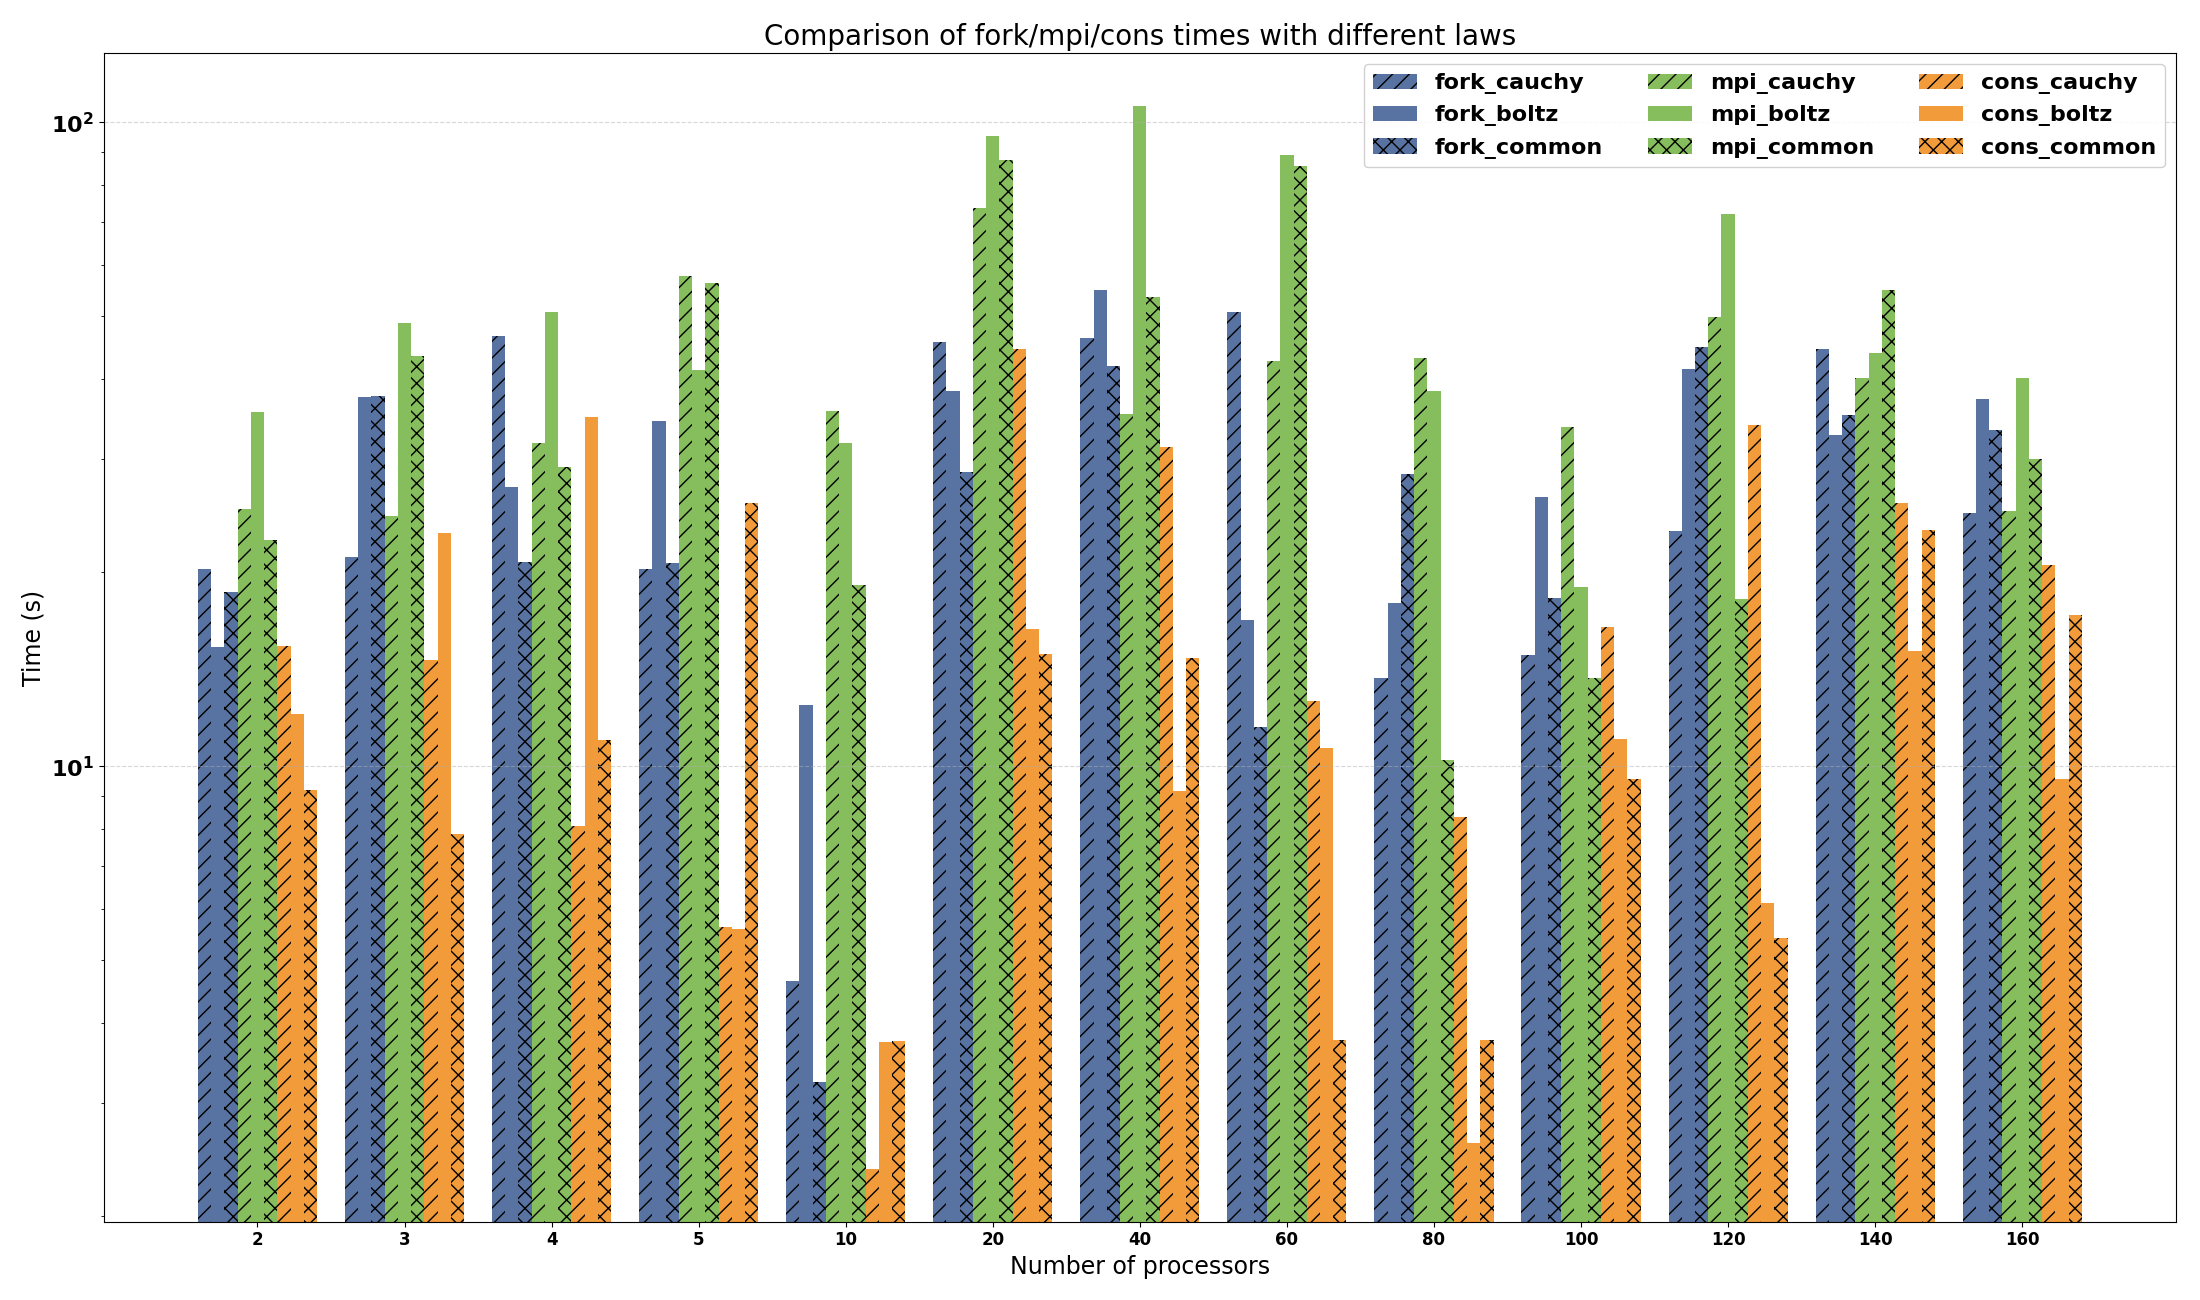
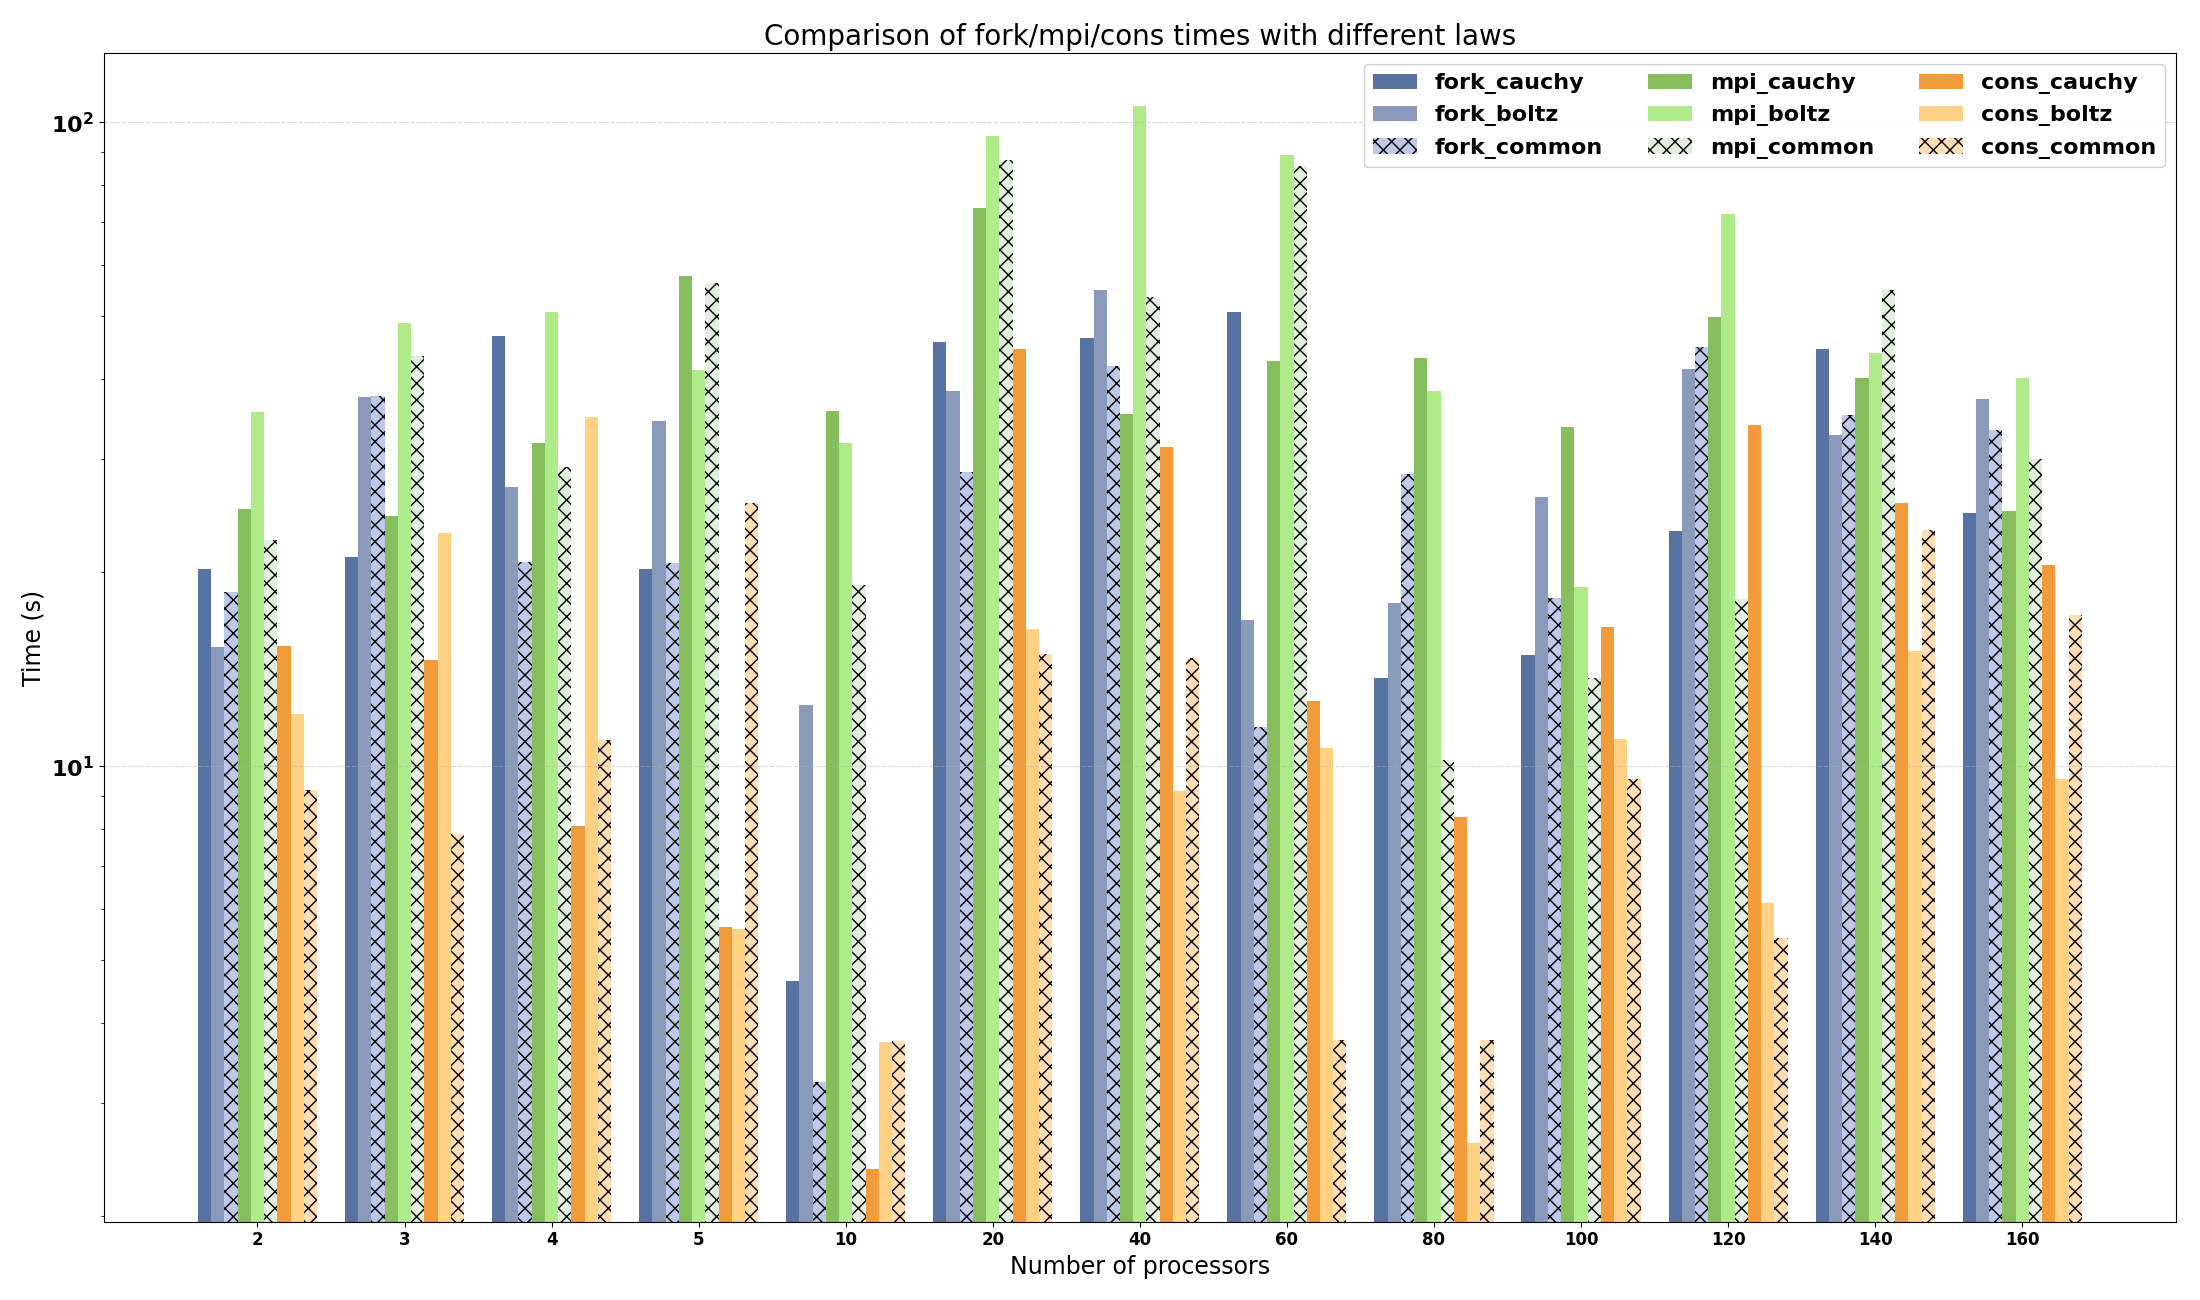
Fix visuality

diff --git a/compare.py b/compare.py
@@ -377,20 +377,19 @@ if __name__ == "__main__":
         plt.grid(axis='y', linestyle='--', alpha=0.5)
 
         # fork - разные цвета, hatch
-        plt.bar(x - 4*bar_width, fork_1, width=bar_width, label='fork_cauchy', color='#3b5b92', hatch='//', alpha=0.85)
-        plt.bar(x - 3*bar_width, fork_2, width=bar_width, label='fork_boltz', color='#3b5b92', hatch='', alpha=0.85)
-        plt.bar(x - 2*bar_width, fork_3, width=bar_width, label='fork_common', color='#3b5b92', hatch='xx', alpha=0.85)
+        plt.bar(x - 4*bar_width, fork_1, width=bar_width, label='fork_cauchy', color='#3b5b92', hatch='', alpha=0.85)
+        plt.bar(x - 3*bar_width, fork_2, width=bar_width, label='fork_boltz', color='#7588b0', hatch='', alpha=0.85)
+        plt.bar(x - 2*bar_width, fork_3, width=bar_width, label='fork_common', color='#b3bfe6', hatch='xx', alpha=0.85)
 
         # mpi - другой цвет
-        plt.bar(x - bar_width, mpi_1, width=bar_width, label='mpi_cauchy', color='#71b340', hatch='//', alpha=0.85)
-        plt.bar(x, mpi_2, width=bar_width, label='mpi_boltz', color='#71b340', hatch='', alpha=0.85)
-        plt.bar(x + bar_width, mpi_3, width=bar_width, label='mpi_common', color='#71b340', hatch='xx', alpha=0.85)
+        plt.bar(x - bar_width, mpi_1, width=bar_width, label='mpi_cauchy', color='#71b340', hatch='', alpha=0.85)
+        plt.bar(x, mpi_2, width=bar_width, label='mpi_boltz', color='#a1e877', hatch='', alpha=0.85)
+        plt.bar(x + bar_width, mpi_3, width=bar_width, label='mpi_common', color='#ddebd9', hatch='xx', alpha=0.85)
 
         # cons - ещё другой цвет
-        plt.bar(x + 2*bar_width, cons_1, width=bar_width, label='cons_cauchy', color='#ef8a17', hatch='//', alpha=0.85)
-        plt.bar(x + 3*bar_width, cons_2, width=bar_width, label='cons_boltz', color='#ef8a17', hatch='', alpha=0.85)
-        plt.bar(x + 4*bar_width, cons_3, width=bar_width, label='cons_common', color='#ef8a17', hatch='xx', alpha=0.85)
-
+        plt.bar(x + 2*bar_width, cons_1, width=bar_width, label='cons_cauchy', color='#ef8a17', hatch='', alpha=0.85)
+        plt.bar(x + 3*bar_width, cons_2, width=bar_width, label='cons_boltz', color='#ffc96f', hatch='', alpha=0.85)
+        plt.bar(x + 4*bar_width, cons_3, width=bar_width, label='cons_common', color='#ffd8a8', hatch='xx', alpha=0.85)
         plt.yscale('log')
         
         plt.xlabel('Number of processors', fontsize=17)
